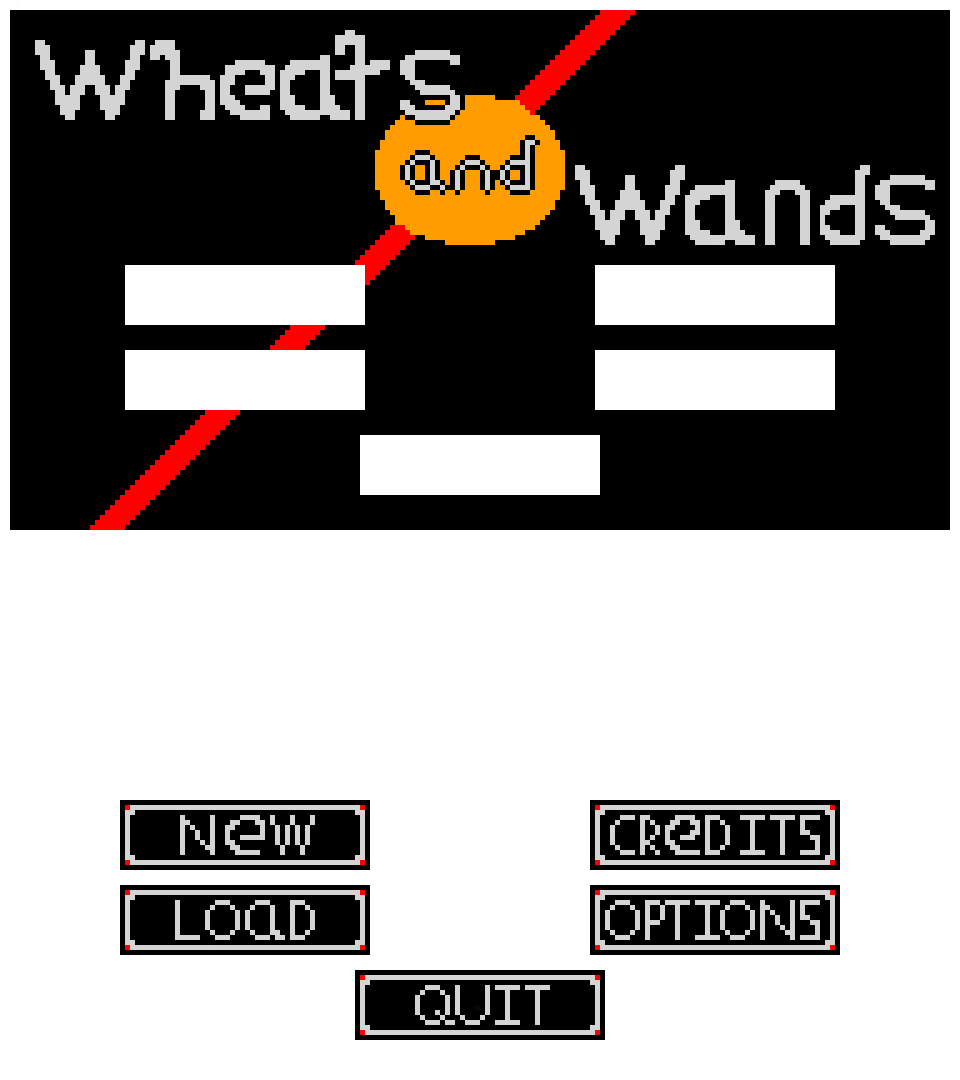
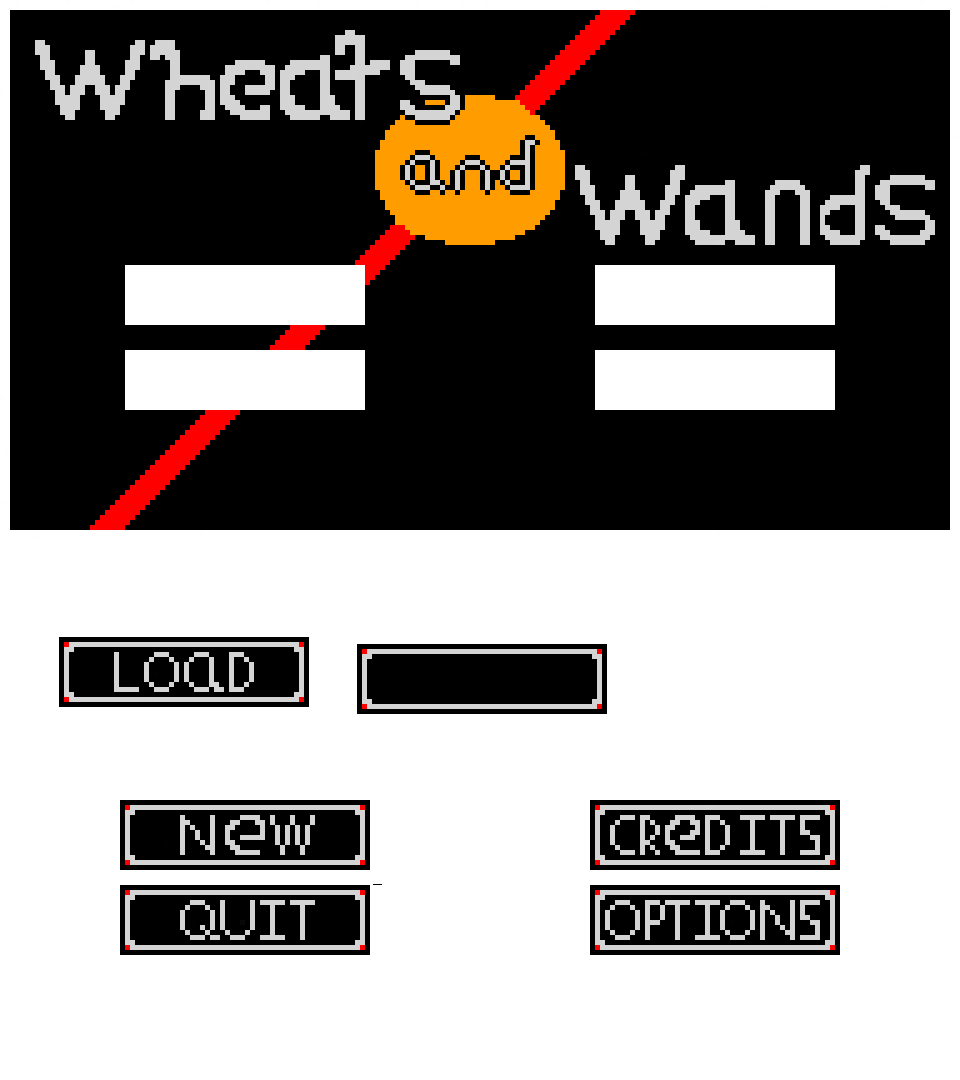
Added options menu

diff --git a/Wheats and Wands/Levels/OptionScreen.cs b/Wheats and Wands/Levels/OptionScreen.cs
@@ -1,0 +1,90 @@
+using Microsoft.Xna.Framework;
+using Microsoft.Xna.Framework.Graphics;
+using Microsoft.Xna.Framework.Media;
+using System;
+using System.Collections.Generic;
+using System.Text;
+using Wheats_and_Wands.Graphics;
+using Wheats_and_Wands.System;
+
+namespace Wheats_and_Wands.Levels
+{
+    class OptionScreen : Level
+    {
+        //Fullscreen option (less important)
+        //Volume Option
+        //start with mute/unmute
+        //if time allows, variable volume 
+
+        GameState _gameState;
+
+        Texture2D _optionsScreen;
+        Texture2D _titleScreenSheet;
+        SpriteFont _font;
+
+        Sprite _muteButtonSprite;
+        Button _muteButton;
+
+        Sprite _menuButtonSprite;
+        Button _menuButton;
+
+        public OptionScreen(GameState gameState,Texture2D optionsScreen,Texture2D titleScreenSheet, SpriteFont font)
+        {
+            _gameState = gameState;
+            _font = font;
+            _optionsScreen = optionsScreen;
+            _titleScreenSheet = titleScreenSheet;
+
+            _menuButtonSprite = new Sprite(titleScreenSheet, 357, 644, 250, 70, new Vector2(50, 990));
+            _menuButton = new Button(_menuButtonSprite);
+            _menuButton.Click += _menuButton_Click;
+
+            _muteButtonSprite = new Sprite(titleScreenSheet, 357, 644, 250, 70, new Vector2(WheatandWandsGame.WINDOW_WIDTH/2 -125, 540+200));
+            _muteButton = new Button(_muteButtonSprite);
+            _muteButton.Click += _muteButton_Click;
+
+
+
+
+
+
+        }
+        public void _muteButton_Click(object sender, EventArgs e)
+        {
+            if (MediaPlayer.IsMuted)
+            {
+                MediaPlayer.IsMuted = false;
+            } 
+            else
+            {
+                MediaPlayer.IsMuted = true;
+            }
+
+        }
+        
+        public void _menuButton_Click(object sender, EventArgs e)
+        {
+            _gameState.state = States.TitleScreen;
+        }
+        public override void Draw(SpriteBatch spriteBatch, GameTime gameTime)
+        {
+            spriteBatch.Draw(_optionsScreen, new Vector2(0, 0), Color.Black);
+            
+            _menuButton.Draw(gameTime,spriteBatch);
+            _muteButton.Draw(gameTime, spriteBatch);
+            spriteBatch.DrawString(_font, "MENU", new Vector2(150, 990 - 510), Color.White);
+            spriteBatch.DrawString(_font, "MUTE", new Vector2(990 / 2 - 30, 225), Color.White); 
+            //I have NO idea why, but if you change the text, only the last 2 letters print, DO NOT CHANGE TEXT
+
+        }
+
+        public override void Update(GameTime gameTime)
+        {
+
+            _menuButton.Update(gameTime);
+            _muteButton.Update(gameTime);
+        }
+
+
+    }
+}

diff --git a/Wheats and Wands/Levels/TitleScreen.cs b/Wheats and Wands/Levels/TitleScreen.cs
@@ -15,21 +15,17 @@ namespace Wheats_and_Wands.Levels
         Texture2D _spriteSheet { get; set; }
         SpriteBatch _spriteBatch { get; set; }
 
-        //static Game _game;
-
 
         GameState _gameState;
         Rectangle _frame = new Rectangle(0, 0, WheatandWandsGame.WINDOW_WIDTH, WheatandWandsGame.WINDOW_HEIGHT);
         Sprite _backGround;
 
         Sprite _newButtonSprite;
-        Sprite _loadButtonSprite;
         Sprite _optionsButtonSprite;
         Sprite _creditsButtonSprite;
         Sprite _quitButtonSprite;
 
         Button _newButton;
-        Button _loadButton;
         Button _optionsButton;
         Button _creditsButton;
         Button _quitButton;
@@ -46,17 +42,14 @@ namespace Wheats_and_Wands.Levels
             _backGround = new Sprite(spriteSheet, 0, 0, 960, 540);
 
 
-            _newButtonSprite = new Sprite(spriteSheet, 120, 800, 250, 70);
-            _loadButtonSprite = new Sprite(spriteSheet, 120, 885, 250, 70);
-            _creditsButtonSprite = new Sprite(spriteSheet, 590, 800, 250, 70);
-            _optionsButtonSprite = new Sprite(spriteSheet, 590, 885, 250, 70);
-            _quitButtonSprite = new Sprite(spriteSheet, 355, 970, 250, 70);
+            _newButtonSprite = new Sprite(spriteSheet, 120, 800, 250, 70, new Vector2(120, 800));
+            _creditsButtonSprite = new Sprite(spriteSheet, 590, 800, 250, 70, new Vector2(590, 800));
+            _optionsButtonSprite = new Sprite(spriteSheet, 590, 885, 250, 70, new Vector2(590, 885));
+            _quitButtonSprite = new Sprite(spriteSheet, 120, 885, 250, 70, new Vector2(120, 885));
 
             _newButton = new Button(_newButtonSprite);
             _newButton.Click += NewButton_Click;
             
-            _loadButton = new Button(_loadButtonSprite);
-            _loadButton.Click += LoadButton_Click;
 
             _optionsButton = new Button(_optionsButtonSprite);
             _optionsButton.Click += OptionsButton_Click;
@@ -70,7 +63,6 @@ namespace Wheats_and_Wands.Levels
             _buttonList = new List<Component>()
             {
                 _newButton,
-                _loadButton,
                 _optionsButton,
                 _creditsButton,
                 _quitButton,
@@ -95,14 +87,9 @@ namespace Wheats_and_Wands.Levels
             _gameState.state = States.Tutorial;
         }
 
-        public void LoadButton_Click(object sender, EventArgs e)
-        {
-            //Load game stuff here
-        }
-
         public void OptionsButton_Click(object sender, EventArgs e)
         {
-            //Options stuff here
+            _gameState.state = States.OptionsScreen;
         }
 
         public void CreditsButton_Click(object sender, EventArgs e)

diff --git a/Wheats and Wands/Levels/TutorialFarm.cs b/Wheats and Wands/Levels/TutorialFarm.cs
@@ -6,6 +6,7 @@ using System.Collections.Generic;
 using System.Text;
 using Wheats_and_Wands.Entities;
 using Wheats_and_Wands.Graphics;
+using Wheats_and_Wands.System;
 
 namespace Wheats_and_Wands.Levels
 {
@@ -18,19 +19,24 @@ namespace Wheats_and_Wands.Levels
         HayBale _hayBale1;
         HayBale _hayBale2;
         HayBale _hayBale3;
+        HayBale _hayBale4;
         List<HayBale> hayBales;
+        GameState _gameState;
 
-        public TutorialFarm( Farmer farmer, Texture2D signTexture, Texture2D msgBoxTexture, Texture2D haybale , SpriteFont font)
+        public TutorialFarm( Farmer farmer, Texture2D signTexture, Texture2D msgBoxTexture, Texture2D haybale , SpriteFont font, GameState gameState)
         {
             _farmer = farmer;
             _sign = new Sign(new Sprite(signTexture, 0, 0, 83, 103, new Vector2(250, 325)), msgBoxTexture, font,_farmer, "Use WASD to move");
             _hayBale1 = new HayBale(new Sprite(haybale, 0, 0, 64, 64, new Vector2(525, 400)), farmer);
             _hayBale2 = new HayBale(new Sprite(haybale, 0, 0, 64, 64, new Vector2(650, 400)), farmer);
             _hayBale3 = new HayBale(new Sprite(haybale, 0, 0, 64, 64, new Vector2(650, 400-64)), farmer);
+            _hayBale4 = new HayBale(new Sprite(haybale, 0, 0, 64, 64, new Vector2(650+64, 400)), farmer);
             hayBales = new List<HayBale>();
             hayBales.Add(_hayBale1);
             hayBales.Add(_hayBale2);
             hayBales.Add(_hayBale3);
+            hayBales.Add(_hayBale4);
+            _gameState = gameState;
         }
 
         public override void Draw(SpriteBatch spriteBatch, GameTime gameTime)
@@ -56,19 +62,25 @@ namespace Wheats_and_Wands.Levels
             _farmer._groundY = _farmerStartPos.Y;
             
             
+
+            foreach (HayBale haybale in hayBales)
             {
-                foreach (HayBale haybale in hayBales)
+                if (haybale.Collision(_farmer))
                 {
-                    if (haybale.Collision(_farmer))
-                    {
-                        haybale.RejectMovment(_farmer, gameTime);
-                    }
+                haybale.RejectMovment(_farmer, gameTime);
                 }
             }
             
             _sign.Update(gameTime, _farmer);
+
+            if( _farmer.Position.X + _farmer._sprite.Width > WheatandWandsGame.WINDOW_WIDTH - 10)
+            {
+                //_gameState.state = States.CreditScreen;
+            }
+
+
         }
 
-
+        
     }
 }

diff --git a/Wheats and Wands/WheatandWandsGame.cs b/Wheats and Wands/WheatandWandsGame.cs
@@ -22,6 +22,7 @@ namespace Wheats_and_Wands
         TitleScreen _titleScreen;
         TutorialFarm _tutorial;
         CreditScreen _creditScreen;
+        OptionScreen _optionScreen;
 
 
         Texture2D _titleScreenSprite;
@@ -143,8 +144,9 @@ namespace Wheats_and_Wands
 
             _titleScreen = new TitleScreen(_titleScreenSprite, _gameState);
             _creditScreen = new CreditScreen(_creditScreenSprite,_creditFont );
+            _optionScreen = new OptionScreen(_gameState,_creditScreenSprite, _titleScreenSprite, _creditFont);
 
-            _tutorial = new TutorialFarm( _farmer, _sign, _textbox, _hayBale ,_creditFont);
+            _tutorial = new TutorialFarm( _farmer, _sign, _textbox, _hayBale ,_creditFont,_gameState);
         }
 
         protected override void Update(GameTime gameTime)
@@ -168,6 +170,10 @@ namespace Wheats_and_Wands
             if (_gameState.state == States.CreditScreen)
             {
                 _level = _creditScreen;
+            }
+            if (_gameState.state == States.OptionsScreen)
+            {
+                _level = _optionScreen;
             }
             _inputController.ProcessControls(gameTime);
             _level.Update(gameTime);

diff --git a/Wheats and Wands/System/Button.cs b/Wheats and Wands/System/Button.cs
@@ -24,7 +24,7 @@ namespace Wheats_and_Wands.System
         {
            get
             {
-                return new Rectangle(_sprite.X , _sprite.Y - 540, _sprite.Width, _sprite.Height);
+                return new Rectangle((int)_sprite.position.X , (int)_sprite.position.Y - 540, _sprite.Width, _sprite.Height);
             }
         }
 
@@ -41,7 +41,7 @@ namespace Wheats_and_Wands.System
                 _sprite.TintColor = Color.White;
             }
 
-            _sprite.Draw(spriteBatch, new Vector2(_sprite.X, _sprite.Y - 540));
+            _sprite.Draw(spriteBatch, new Vector2(_sprite.position.X, _sprite.position.Y - 540));
         }
 
         public override void Update(GameTime gameTime)

diff --git a/Wheats and Wands/Entities/CollisionEntity.cs b/Wheats and Wands/Entities/CollisionEntity.cs
@@ -52,7 +52,7 @@ namespace Wheats_and_Wands.Entities
                     
                     _farmer._groundY = _sprite.position.Y ;
                     _farmer.Land();
-                    position.Y = _sprite.position.Y - 2* _sprite.Height;
+                    position.Y = _sprite.position.Y - 128;
                 }
                 else if (BottomCollision(_farmer))
                 {

diff --git a/Wheats and Wands/Entities/Farmer.cs b/Wheats and Wands/Entities/Farmer.cs
@@ -23,7 +23,7 @@ namespace Wheats_and_Wands.Entities
         public FarmerState State { get; set; }
         public Vector2 Position { get; set; }
         public Rectangle rectangle { get; set; }
-        //public bool IsAlive { get; private set; }
+        //public bool IsAlive { get; set; }
         public int DrawOrder { set; get; }
         public bool OnGround { get; set; }
 

diff --git a/Wheats and Wands/Entities/HayBale.cs b/Wheats and Wands/Entities/HayBale.cs
@@ -9,12 +9,10 @@ namespace Wheats_and_Wands.Entities
     class HayBale : CollisionEntity
     {
         Sprite _sprite;
-        //Farmer _farmer;
         
         public HayBale(Sprite sprite, Farmer farmer) : base(sprite)
         {
             _sprite = sprite;
-            //_farmer = farmer;
         }
         
 

diff --git a/Wheats and Wands/System/GameState.cs b/Wheats and Wands/System/GameState.cs
@@ -17,5 +17,6 @@ namespace Wheats_and_Wands.System
         TitleScreen,
         CreditScreen,
         Tutorial,
+        OptionsScreen
     }
 }
